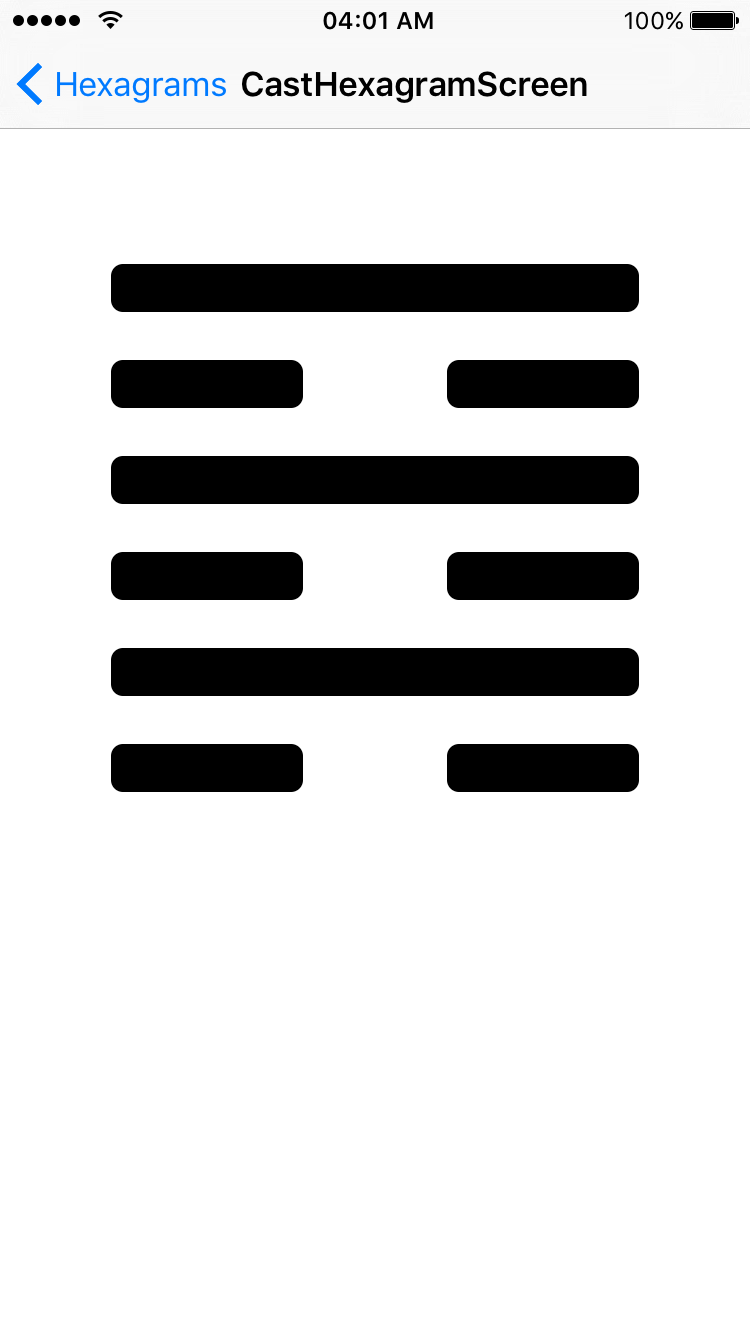
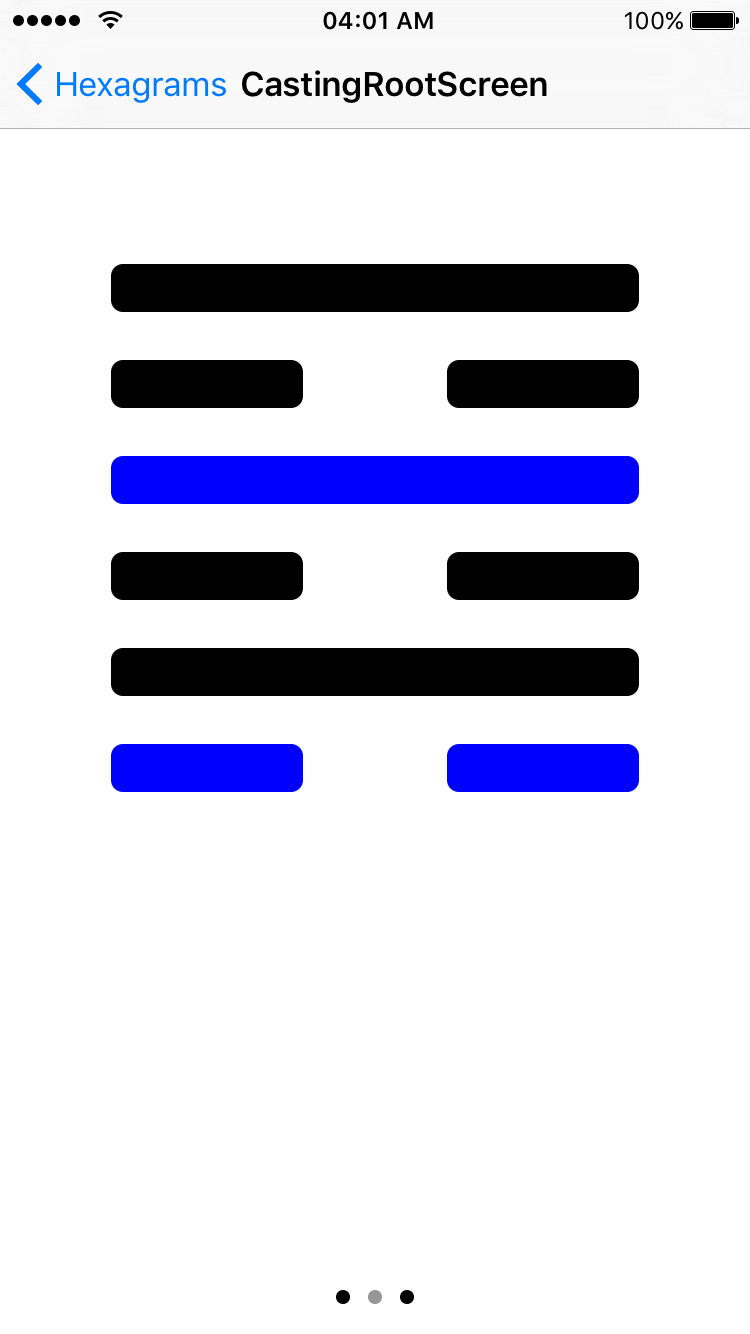
Update specs and add page view for casting

diff --git a/ios/app/screens/casting_root_screen.rb b/ios/app/screens/casting_root_screen.rb
@@ -1,0 +1,51 @@
+class CastingRootScreen < PM::Screen
+  stylesheet CastingRootScreenStylesheet
+  attr_accessor :casting_method, :cast_result
+
+  def on_load
+    rmq(self).apply_style(:root_view)
+    API.cast(self.casting_method) do |result|
+      self.cast_result = result
+      cast_hexagram_page_view_screen = CastHexagramPageViewScreen.new.tap do |screen|
+        screen.delegate = self
+        screen.dataSource = self
+      end
+      cast_hexagram_page_view_screen.append
+      rmq(UIPageControl).apply_style(:page_control)
+    end
+  end
+
+  def controllers
+    @controllers ||= [
+      HexagramScreen.new(nav_bar: true, hexagram: Turnkey.unarchive("hexagrams").find{|h| h["king_wen_number"] == self.cast_result["stable"]}),
+      CastHexagramScreen.new(nav_bar: true, cast_result: self.cast_result),
+      HexagramScreen.new(nav_bar: true, hexagram: Turnkey.unarchive("hexagrams").find{|h| h["king_wen_number"] == self.cast_result["changed"]})
+    ]
+  end
+
+  def pageViewController(_, viewControllerBeforeViewController: vc)
+    index = controllers.index(vc)
+    if index == 0
+      nil
+    else
+      controllers[index-1]
+    end
+  end
+
+  def pageViewController(_, viewControllerAfterViewController: vc)
+    index = controllers.index(vc)
+    if index == controllers.size - 1
+      nil
+    else
+      controllers[index+1]
+    end
+  end
+
+  def presentationCountForPageViewController(_)
+    controllers.size
+  end
+
+  def presentationIndexForPageViewController(_)
+    1
+  end
+end

diff --git a/ios/app/views/hexagram_view.rb b/ios/app/views/hexagram_view.rb
@@ -10,7 +10,8 @@ class HexagramView < UIView
   def draw_lines
     rmq(self).tap do |q|
       lines.reverse.each_with_index do |line, index|
-        if line == "0"
+        case line.to_i
+        when 0, 8
           q.append!(UIView, :hexagram_line).style do |st|
             dim = q.frame.size.width / 24
             st.frame = { t: dim * ((4 * index) + 1), w: dim * 8 }
@@ -19,10 +20,27 @@ class HexagramView < UIView
             dim = q.frame.size.width / 24
             st.frame = { t: dim * ((4 * index) + 1), w: dim * 8, fr: dim }
           end
-        else
+        when 1, 7
           q.append!(UIView, :hexagram_line).style do |st|
             dim = q.frame.size.width / 24
             st.frame = { t: dim * ((4 * index) + 1) }
+          end
+        when 6
+          q.append!(UIView, :hexagram_line).style do |st|
+            dim = q.frame.size.width / 24
+            st.frame = { t: dim * ((4 * index) + 1), w: dim * 8 }
+            st.background_color = rmq.color.blue
+          end
+          q.append!(UIView, :hexagram_line).style do |st|
+            dim = q.frame.size.width / 24
+            st.frame = { t: dim * ((4 * index) + 1), w: dim * 8, fr: dim }
+            st.background_color = rmq.color.blue
+          end
+        when 9
+          q.append!(UIView, :hexagram_line).style do |st|
+            dim = q.frame.size.width / 24
+            st.frame = { t: dim * ((4 * index) + 1) }
+            st.background_color = rmq.color.blue
           end
         end
       end

diff --git a/ios/app/screens/cast_hexagram_screen.rb b/ios/app/screens/cast_hexagram_screen.rb
@@ -1,28 +1,19 @@
 class CastHexagramScreen < PM::Screen
-  attr_accessor :casting_method
+  attr_accessor :casting_method, :cast_result
   stylesheet CastHexagramScreenStylesheet
 
   def will_appear
-    mp self.casting_method
     draw_hexagram
   end
 
   def draw_hexagram
-    API.cast(self.casting_method) do |result|
-      mp result
-      rmq(self.view).apply_style(:root_view).tap do |q|
-        q.append!(HexagramView).tap do |q_h|
-          rmq(q_h).style do |st|
-            st.frame = { centered: :horizontal }
-          end
-          q_h.lines = result["lines"].map { |line|
-            case line
-            when 6, 8 then "0"
-            when 7, 9 then "1"
-            end
-          }
-          q_h.draw_lines
+    rmq(self.view).apply_style(:root_view).tap do |q|
+      q.append!(HexagramView).tap do |q_h|
+        rmq(q_h).style do |st|
+          st.frame = { centered: :horizontal }
         end
+        q_h.lines = self.cast_result["lines"]
+        q_h.draw_lines
       end
     end
   end

diff --git a/ios/app/screens/cast_hexagram_page_view_screen.rb b/ios/app/screens/cast_hexagram_page_view_screen.rb
@@ -1,0 +1,21 @@
+class CastHexagramPageViewScreen < UIPageViewController
+  def self.new
+    self.alloc.initWithTransitionStyle(
+      UIPageViewControllerTransitionStyleScroll,
+      navigationOrientation: UIPageViewControllerNavigationOrientationHorizontal,
+      options: {}
+    )
+  end
+
+  def append
+    self.delegate.addChildViewController(self)
+    self.delegate.rmq.append(self.view, :paginator)
+
+    self.setViewControllers(
+      [self.dataSource.controllers[1]],
+      direction: UIPageViewControllerNavigationDirectionReverse,
+      animated: false,
+      completion: nil
+    )
+  end
+end

diff --git a/ios/features/step_definitions/i_ching_steps.rb b/ios/features/step_definitions/i_ching_steps.rb
@@ -1,3 +1,14 @@
-Given(/^I start the app$/) do
+Given /^I start the app$/ do
   # no-op
+end
+
+Given /^I cast a hexagram$/ do
+  step %~I touch "Cast Hexagram"~
+  step %~I touch "Yarrow"~
+end
+
+Given /^I page (.*)$/ do |direction|
+  y = $driver.window_size.height - 5
+  x = direction == "right" ? $driver.window_size.width - 10 : 10
+  Appium::TouchAction.new.press(x: x, y: y, fingers: 1, tapCount: 1, duration: 0.5).perform
 end

diff --git a/ios/app/stylesheets/appearance.rb b/ios/app/stylesheets/appearance.rb
@@ -13,6 +13,11 @@ class StandardAppearance
         o.font = rmq.font.medium
       end
 
+      UIPageControl.appearance.tap do |o|
+        o.pageIndicatorTintColor = rmq.color.black
+        o.currentPageIndicatorTintColor = rmq.color(150, 150, 150)
+      end
+
       # UITabBar.appearance.tap do |o|
       #   o.setTintColor rmq.color.blue
       # end
@@ -48,4 +53,3 @@ class StandardAppearance
     end
   end
 end
-

diff --git a/ios/features/concerns/api.rb b/ios/features/concerns/api.rb
@@ -1,7 +1,9 @@
 module API
   def self.cast(casting_method, &block)
     block.call({
-                 "lines" => [6, 7, 8, 9, 8, 7]
+                 "lines" => [6, 7, 8, 9, 8, 7],
+                 "stable" => 64,
+                 "changed" => 41
                })
   end
 end

diff --git a/ios/app/stylesheets/casting_root_screen_stylesheet.rb b/ios/app/stylesheets/casting_root_screen_stylesheet.rb
@@ -1,0 +1,12 @@
+class CastingRootScreenStylesheet < ApplicationStylesheet
+  def root_view(st)
+    st.background_color = color.white
+  end
+
+  def page_control(st)
+    st.accessibility_label = "page-control"
+  end
+
+  def paginator(st)
+  end
+end

diff --git a/ios/app/screens/hexagram_table_screen.rb b/ios/app/screens/hexagram_table_screen.rb
@@ -55,6 +55,6 @@ class HexagramTableScreen < PM::TableScreen
   end
 
   def cast_hexagram(method)
-    open CastHexagramScreen.new(casting_method: method)
+    open CastingRootScreen.new(casting_method: method)
   end
 end
